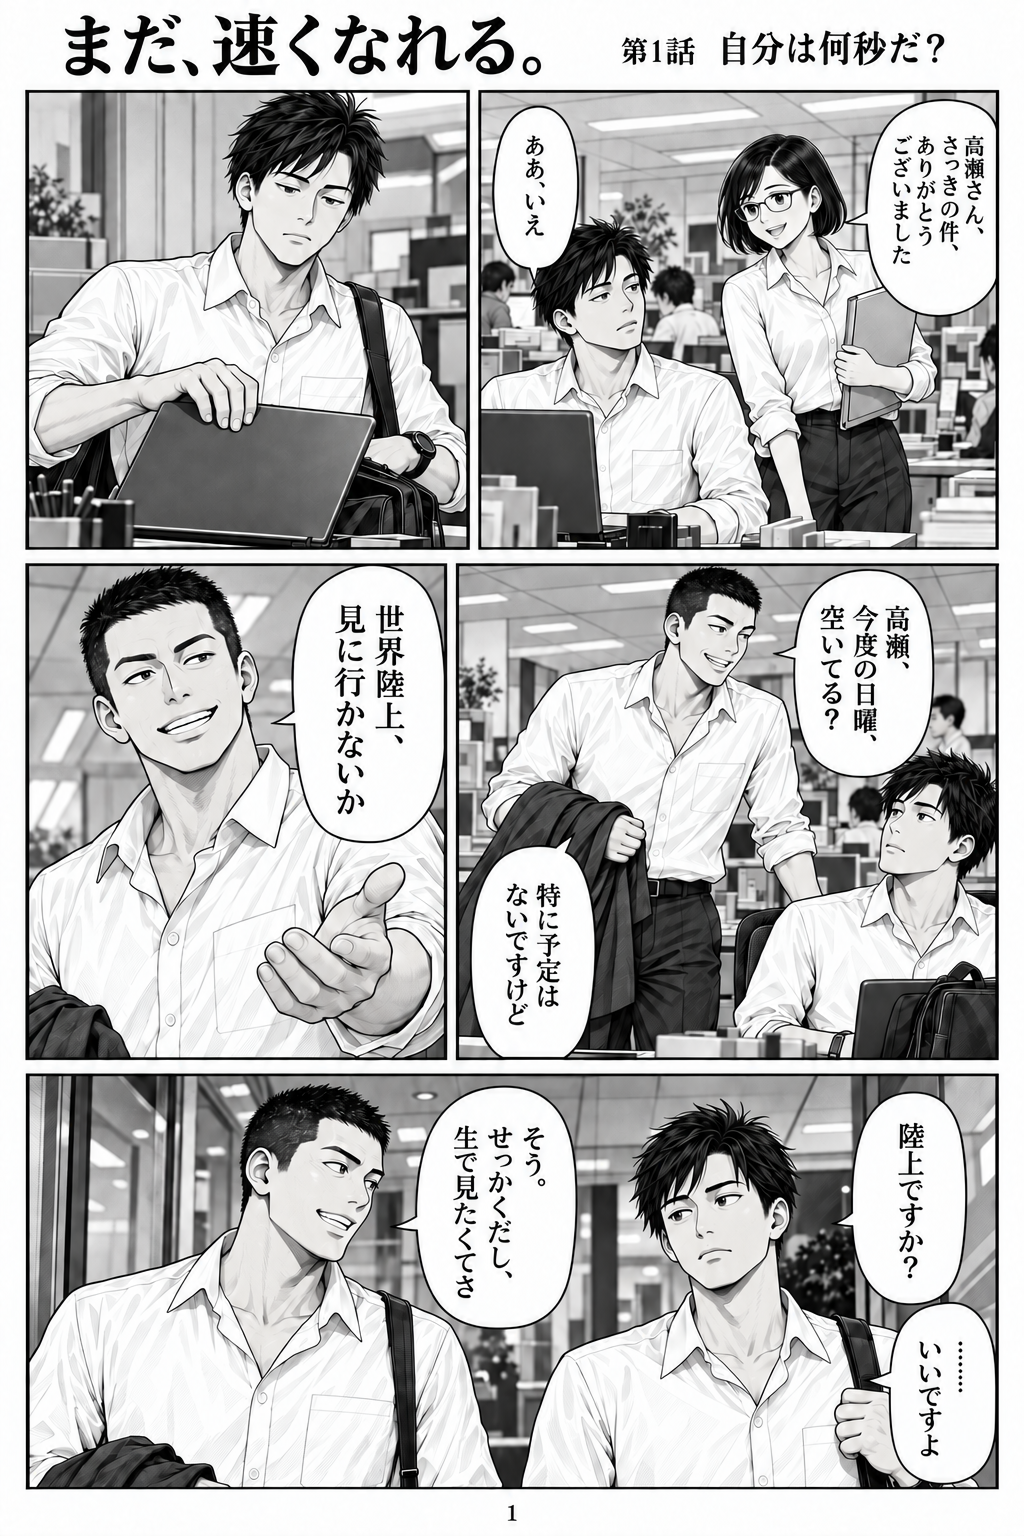
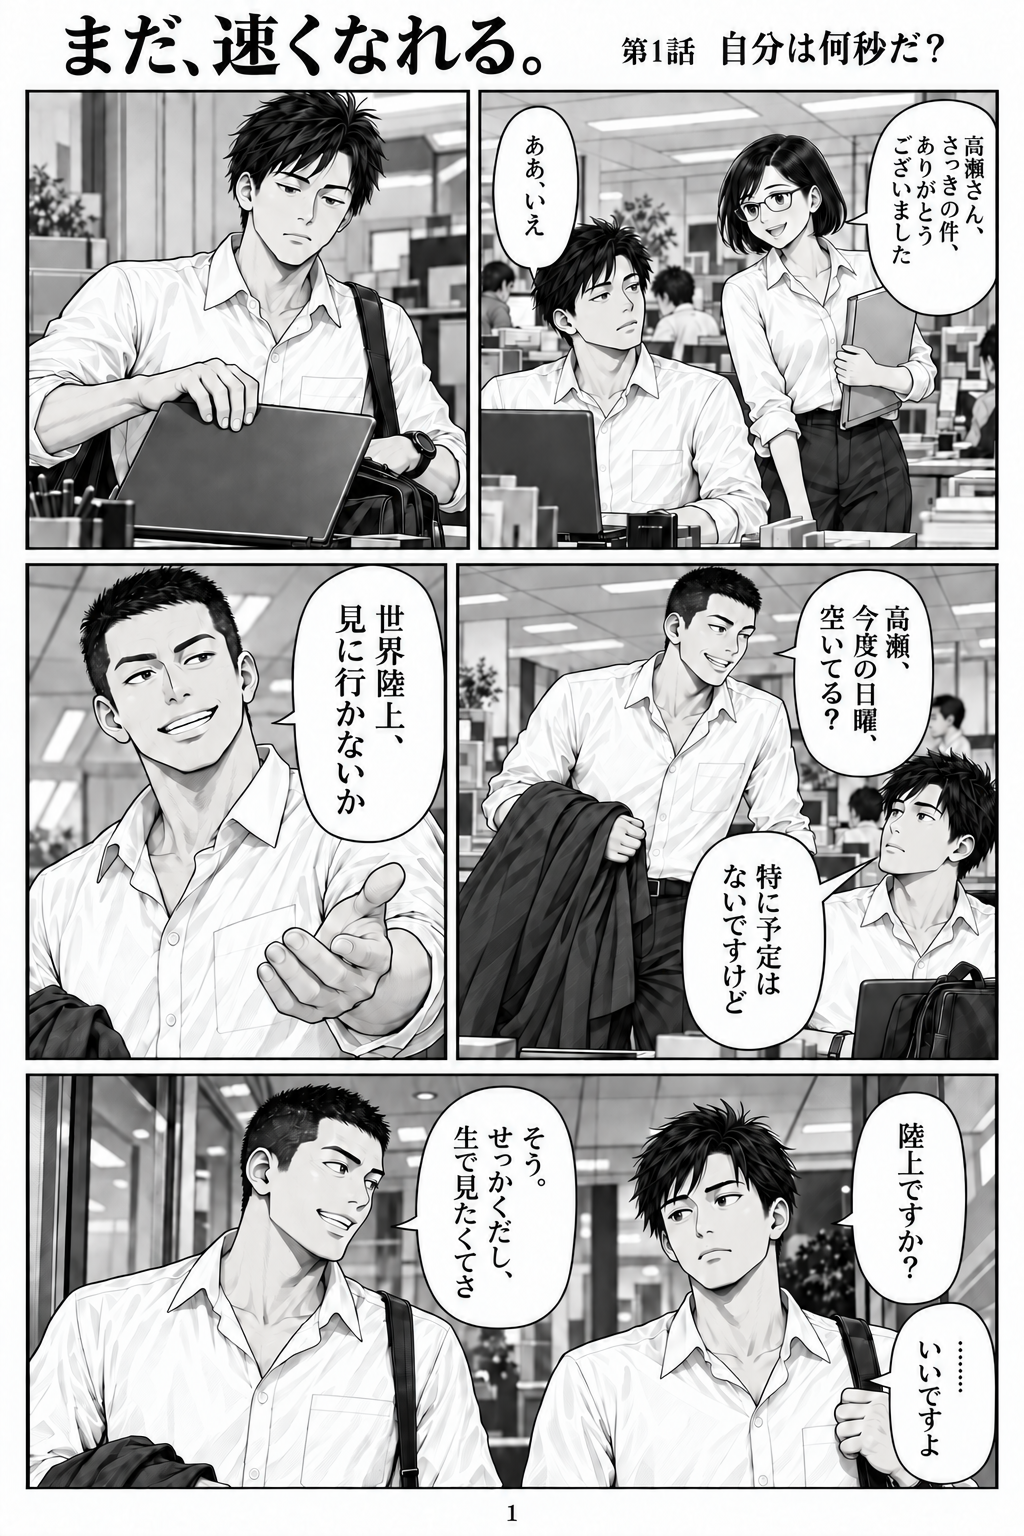
Fix dialogue attribution, eight lanes, phone hand and episode ending

diff --git a/episodes/01/index.html b/episodes/01/index.html
@@ -4,7 +4,7 @@
 :root{color-scheme:dark;--bg:#12181b;--panel:#20292d;--ink:#f2f0e9;--muted:#a6b2b5;--accent:#e8be75}*{box-sizing:border-box}body{margin:0;background:var(--bg);color:var(--ink);font-family:"Yu Gothic UI","Meiryo",sans-serif}header{max-width:1080px;margin:auto;padding:30px 24px 20px;display:flex;align-items:end;justify-content:space-between;gap:20px}h1{font-family:"Yu Mincho",serif;font-size:clamp(25px,5vw,40px);letter-spacing:.05em;margin:0 0 8px}p{margin:0;color:var(--muted);font-size:14px}button,a{touch-action:manipulation}button{font:inherit;border:1px solid #455056;border-radius:8px;background:var(--panel);color:var(--ink);padding:10px 16px;cursor:pointer}button:hover{border-color:var(--accent)}button:focus-visible,a:focus-visible{outline:3px solid var(--accent);outline-offset:3px}button:disabled{opacity:.3;cursor:default}button[aria-pressed=true]{background:var(--accent);color:#161d20;border-color:var(--accent)}.modes{display:flex;gap:6px;white-space:nowrap;font-size:13px}.pages{max-width:900px;margin:0 auto;padding:0 12px 96px}.page{margin:0 auto 28px;max-width:800px;scroll-margin-top:20px}.page img{width:100%;height:auto;display:block;background:white;box-shadow:0 12px 35px #0005}.page figcaption{display:flex;justify-content:space-between;align-items:center;font-size:12px;padding:10px 2px;color:var(--muted)}a{color:var(--accent)}[hidden]{display:none!important}.controls{position:fixed;bottom:0;left:0;right:0;background:#172025f5;border-top:1px solid #3d484e;backdrop-filter:blur(12px);padding:10px 16px;display:flex;justify-content:center;gap:12px;align-items:center;z-index:4}.controls nav{display:flex;gap:5px}.controls nav button{padding:7px 11px;min-width:34px}.controls .arrow{min-width:85px}#status{font-size:13px;min-width:42px;text-align:center;color:var(--muted)}.note{text-align:center;font-size:12px;padding:0 20px 110px}.note a{margin:0 12px}@media(max-width:600px){header{display:block;padding:22px 16px 16px}.modes{margin-top:16px}.pages{padding-left:0;padding-right:0}.page figcaption{padding:10px 14px}.controls{gap:6px;padding:10px 8px}.controls nav{gap:2px}.controls nav button{padding:7px 8px;min-width:27px}.controls .arrow{min-width:56px;padding:9px 8px;font-size:12px}#status{display:none}}@media print{body{background:white}header,.controls,.note,figcaption{display:none!important}.pages{padding:0}.page{display:block!important;break-after:page;margin:0;max-width:none}.page img{box-shadow:none}}
 </style></head><body>
 <header><div><p style="margin-bottom:12px"><a href="../../index.html">← 作品トップへ</a></p><h1>まだ、速くなれる。</h1><p>第1話「自分は何秒だ？」 · 全8ページ</p></div><div class="modes" aria-label="読み方"><button id="single" aria-pressed="true">1ページずつ</button><button id="continuous" aria-pressed="false">続けて読む</button></div></header>
-<main class="pages" id="pages"><figure class="page" id="page-1"><img src="page-01.png" alt="第1話 1ページ" width="1024" height="1536" loading="eager"><figcaption><span>1 / 8</span><a href="page-01.png" target="_blank" rel="noopener">1ページを大きく開く</a></figcaption></figure><figure class="page" id="page-2" hidden><img src="page-02.png" alt="第1話 2ページ" width="1024" height="1536" loading="lazy"><figcaption><span>2 / 8</span><a href="page-02.png" target="_blank" rel="noopener">2ページを大きく開く</a></figcaption></figure><figure class="page" id="page-3" hidden><img src="page-03.png?v=user-fix-01" alt="第1話 3ページ" width="1024" height="1536" loading="lazy"><figcaption><span>3 / 8</span><a href="page-03.png?v=user-fix-01" target="_blank" rel="noopener">3ページを大きく開く</a></figcaption></figure><figure class="page" id="page-4" hidden><img src="page-04.png" alt="第1話 4ページ" width="1024" height="1536" loading="lazy"><figcaption><span>4 / 8</span><a href="page-04.png" target="_blank" rel="noopener">4ページを大きく開く</a></figcaption></figure><figure class="page" id="page-5" hidden><img src="page-05.png?v=user-fix-01" alt="第1話 5ページ" width="1024" height="1536" loading="lazy"><figcaption><span>5 / 8</span><a href="page-05.png?v=user-fix-01" target="_blank" rel="noopener">5ページを大きく開く</a></figcaption></figure><figure class="page" id="page-6" hidden><img src="page-06.png?v=user-fix-01" alt="第1話 6ページ" width="1024" height="1536" loading="lazy"><figcaption><span>6 / 8</span><a href="page-06.png?v=user-fix-01" target="_blank" rel="noopener">6ページを大きく開く</a></figcaption></figure><figure class="page" id="page-7" hidden><img src="page-07.png?v=user-fix-01" alt="第1話 7ページ" width="1024" height="1536" loading="lazy"><figcaption><span>7 / 8</span><a href="page-07.png?v=user-fix-01" target="_blank" rel="noopener">7ページを大きく開く</a></figcaption></figure><figure class="page" id="page-8" hidden><img src="page-08.png?v=user-fix-01" alt="第1話 8ページ" width="1024" height="1536" loading="lazy"><figcaption><span>8 / 8</span><a href="page-08.png?v=user-fix-01" target="_blank" rel="noopener">8ページを大きく開く</a></figcaption></figure></main>
+<main class="pages" id="pages"><figure class="page" id="page-1"><img src="page-01.png?v=user-fix-02" alt="第1話 1ページ" width="1024" height="1536" loading="eager"><figcaption><span>1 / 8</span><a href="page-01.png?v=user-fix-02" target="_blank" rel="noopener">1ページを大きく開く</a></figcaption></figure><figure class="page" id="page-2" hidden><img src="page-02.png" alt="第1話 2ページ" width="1024" height="1536" loading="lazy"><figcaption><span>2 / 8</span><a href="page-02.png" target="_blank" rel="noopener">2ページを大きく開く</a></figcaption></figure><figure class="page" id="page-3" hidden><img src="page-03.png?v=user-fix-02" alt="第1話 3ページ" width="1024" height="1536" loading="lazy"><figcaption><span>3 / 8</span><a href="page-03.png?v=user-fix-02" target="_blank" rel="noopener">3ページを大きく開く</a></figcaption></figure><figure class="page" id="page-4" hidden><img src="page-04.png" alt="第1話 4ページ" width="1024" height="1536" loading="lazy"><figcaption><span>4 / 8</span><a href="page-04.png" target="_blank" rel="noopener">4ページを大きく開く</a></figcaption></figure><figure class="page" id="page-5" hidden><img src="page-05.png?v=user-fix-01" alt="第1話 5ページ" width="1024" height="1536" loading="lazy"><figcaption><span>5 / 8</span><a href="page-05.png?v=user-fix-01" target="_blank" rel="noopener">5ページを大きく開く</a></figcaption></figure><figure class="page" id="page-6" hidden><img src="page-06.png?v=user-fix-01" alt="第1話 6ページ" width="1024" height="1536" loading="lazy"><figcaption><span>6 / 8</span><a href="page-06.png?v=user-fix-01" target="_blank" rel="noopener">6ページを大きく開く</a></figcaption></figure><figure class="page" id="page-7" hidden><img src="page-07.png?v=user-fix-01" alt="第1話 7ページ" width="1024" height="1536" loading="lazy"><figcaption><span>7 / 8</span><a href="page-07.png?v=user-fix-01" target="_blank" rel="noopener">7ページを大きく開く</a></figcaption></figure><figure class="page" id="page-8" hidden><img src="page-08.png?v=user-fix-02" alt="第1話 8ページ" width="1024" height="1536" loading="lazy"><figcaption><span>8 / 8</span><a href="page-08.png?v=user-fix-02" target="_blank" rel="noopener">8ページを大きく開く</a></figcaption></figure></main>
 <div class="note">←キーで次へ・→キーで前へ <a href="../../index.html">作品トップへ</a></div>
 <footer class="controls"><button id="next" class="arrow" aria-label="次のページ">← 次へ</button><nav aria-label="ページを選ぶ"><button data-page="1" aria-label="1ページ" aria-pressed="true">1</button><button data-page="2" aria-label="2ページ" aria-pressed="false">2</button><button data-page="3" aria-label="3ページ" aria-pressed="false">3</button><button data-page="4" aria-label="4ページ" aria-pressed="false">4</button><button data-page="5" aria-label="5ページ" aria-pressed="false">5</button><button data-page="6" aria-label="6ページ" aria-pressed="false">6</button><button data-page="7" aria-label="7ページ" aria-pressed="false">7</button><button data-page="8" aria-label="8ページ" aria-pressed="false">8</button></nav><span id="status" aria-live="polite">1 / 8</span><button id="prev" class="arrow" disabled aria-label="前のページ">前へ →</button></footer>
 <script>

diff --git a/index.html b/index.html
@@ -2,5 +2,5 @@
 <html lang="ja"><head><meta charset="utf-8"><meta name="viewport" content="width=device-width,initial-scale=1"><meta name="description" content="退屈な毎日を送る30代の会社員が、100mに挑む。創作漫画『まだ、速くなれる。』第1話・全8ページ。"><meta name="theme-color" content="#12181b"><title>まだ、速くなれる。｜社会人スプリンター漫画</title><link rel="stylesheet" href="styles.css"></head>
 <body><a class="skip" href="#episodes">話を選ぶ</a><header><div class="wrap"><a class="brand" href="./">まだ、速くなれる。</a></div></header>
 <main class="wrap"><section class="hero"><p class="eyebrow">社会人 × 100m</p><h1>まだ、<br>速くなれる。</h1><p class="intro">毎日は、だいたい同じだった。<br>あの速さを、目の前で見るまでは。</p><p class="synopsis">30代。仕事も生活も、それなりに回っている。<br>退屈していた会社員・高瀬直人が、100mの世界へ踏み出す。</p><a class="button" href="episodes/01/index.html">第1話から読む <span aria-hidden="true">→</span></a></section>
-<section id="episodes"><h2>公開中のエピソード <small>全1話・8ページ</small></h2><a class="episode-card" href="episodes/01/index.html"><img src="episodes/01/page-01.png" alt="第1話の1ページ目" width="1024" height="1536" loading="lazy"><div><p class="eyebrow">第1話 · 8ページ</p><h3>自分は何秒だ？</h3><p>観客席で芽生えた、小さな疑問。<br>まずは、自分のタイムが知りたい。</p><span class="read">読む →</span></div></a></section></main>
+<section id="episodes"><h2>公開中のエピソード <small>全1話・8ページ</small></h2><a class="episode-card" href="episodes/01/index.html"><img src="episodes/01/page-01.png?v=user-fix-02" alt="第1話の1ページ目" width="1024" height="1536" loading="lazy"><div><p class="eyebrow">第1話 · 8ページ</p><h3>自分は何秒だ？</h3><p>観客席で芽生えた、小さな疑問。<br>まずは、自分のタイムが知りたい。</p><span class="read">読む →</span></div></a></section></main>
 <footer class="wrap"><p>100mに挑む社会人を描く創作漫画です。<br>AIを用いて制作しています。</p></footer></body></html>
